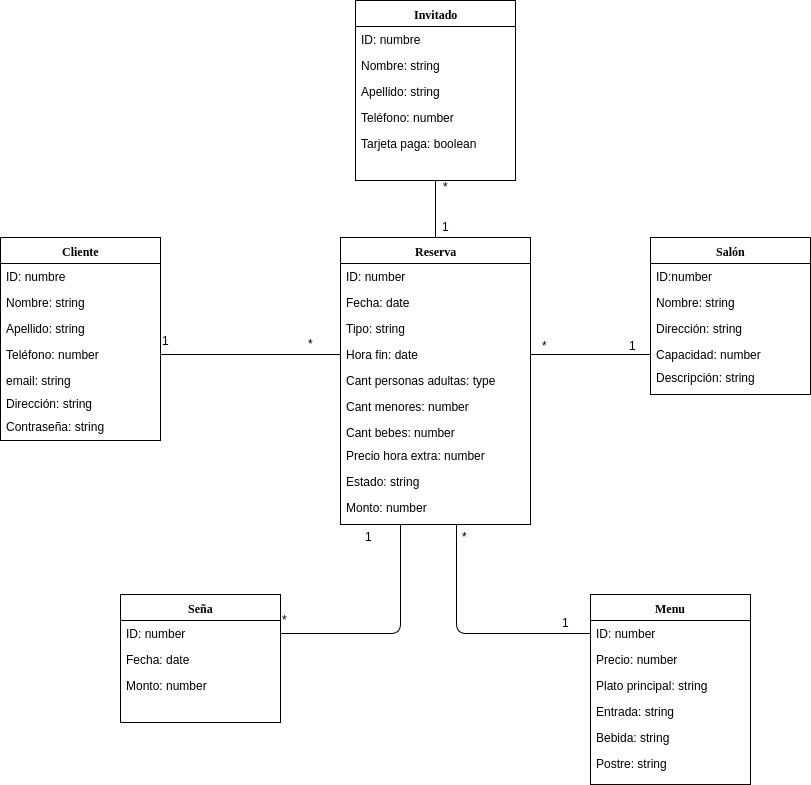
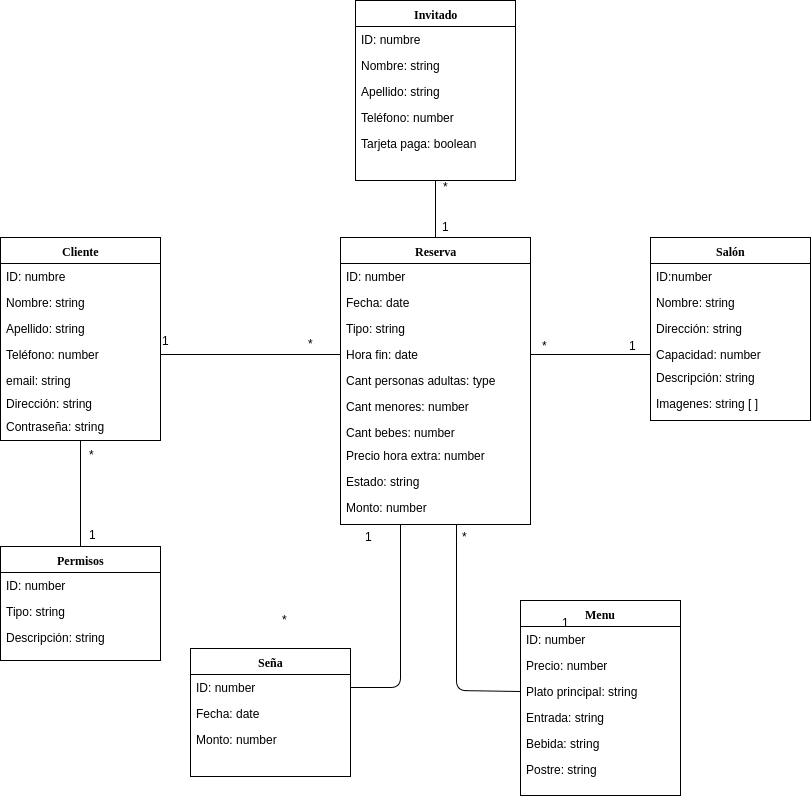
express static imagenes, arreglo de modelo de dominio

diff --git a/BackEnd/app/routes/room.js b/BackEnd/app/routes/room.js
@@ -2,6 +2,7 @@ var mongoose = require('mongoose');
 const router = require('express').Router();
 const bodyParser = require('body-parser');
 var room = mongoose.model('room');
+var userModel = mongoose.model('user')
 
 router.get('/', (req,res) => {
   room.find({})
@@ -21,35 +22,62 @@ router.get('/:name', (req,res) =>{
 });
 
 
-router.post('/',(req,res)=>{
-  let instRoom = new room(req.body);
-  instRoom.save()
-  .then(room => {
-    if(!room){return res.sendStatus(404);}
-    return res.json(room)
-  });
+router.post('/:_id',(req,res)=>{
+  userModel.find({_id:req.params._id}) 
+   .populate('permits')
+   .then(user=>{
+      if(user[0].permits.type==="administrador"){
+        let instRoom = new room(req.body);
+        instRoom.save()
+       .then(room => {
+        if(!room){return res.sendStatus(404);}
+        return res.json(room)
+       });
+      }
+     else{
+       return res.json({permiso:'no tiene permiso'})
+      }
+    })
 });
 
-router.put('/:_id',(req,res)=>{
-  let id = req.params._id;
-  let name = req.body.name;
-  let address = req.body.address;
-  let capacity = req.body.capacity;
-  let description = req.body.description;
-  room.findOneAndUpdate( {"_id":id} , { "$set": {"name":name,"address":address,"capacity":capacity,"description":description }})
-  .then(room => {
-    if(!room){return res.sendStatus(401);}
-    return res.json(room);
+router.put('/:_id_admin/:_id',(req,res)=>{
+  userModel.find({_id:req.params._id_admin}) 
+   .populate('permits')
+   .then(user=>{
+      if(user[0].permits.type==="administrador"){
+        let id = req.params._id;
+        let name = req.body.name;
+        let address = req.body.address;
+        let capacity = req.body.capacity;
+        let description = req.body.description;
+        room.findOneAndUpdate( {"_id":id} , { "$set": {"name":name,"address":address,"capacity":capacity,"description":description }})
+        .then(room => {
+        if(!room){return res.sendStatus(401);}
+        return res.json(room);
+       })   
+      }
+     else{
+       return res.json({permiso:'no tiene permiso'})
+      }
   })
 });
 
-router.delete('/:_id',(req,res)=>{
- let id = req.params._id;
- room.findByIdAndRemove(id)
- .then( room => {
-   if(!room){ return res.sendStatus(404);}
-   return res.json(room.name)
- })
+router.delete('/:_id_admin/:_id',(req,res)=>{
+  userModel.find({_id:req.params._id}) 
+   .populate('permits')
+   .then(user=>{
+      if(user[0].permits.type==="administrador"){
+        let id = req.params._id;
+        room.findByIdAndRemove(id)
+        .then( room => {
+         if(!room){ return res.sendStatus(404);}
+          return res.json(room.name)
+        })
+      }
+     else{
+       return res.json({permiso:'no tiene permiso'})
+      }
+  }) 
 });
 
 

diff --git a/BackEnd/app/server.js b/BackEnd/app/server.js
@@ -12,6 +12,7 @@ const port = 3000;
 app.use(bodyParser.urlencoded({extended:false}));
 app.use(bodyParser.json());
 app.use(methodOverride());
+app.use('/images',express.static('images'));
 
 mongoose.connect('mongodb://localhost/GestionSalones', { useMongoClient: true });
 mongoose.Promise = global.Promise;
